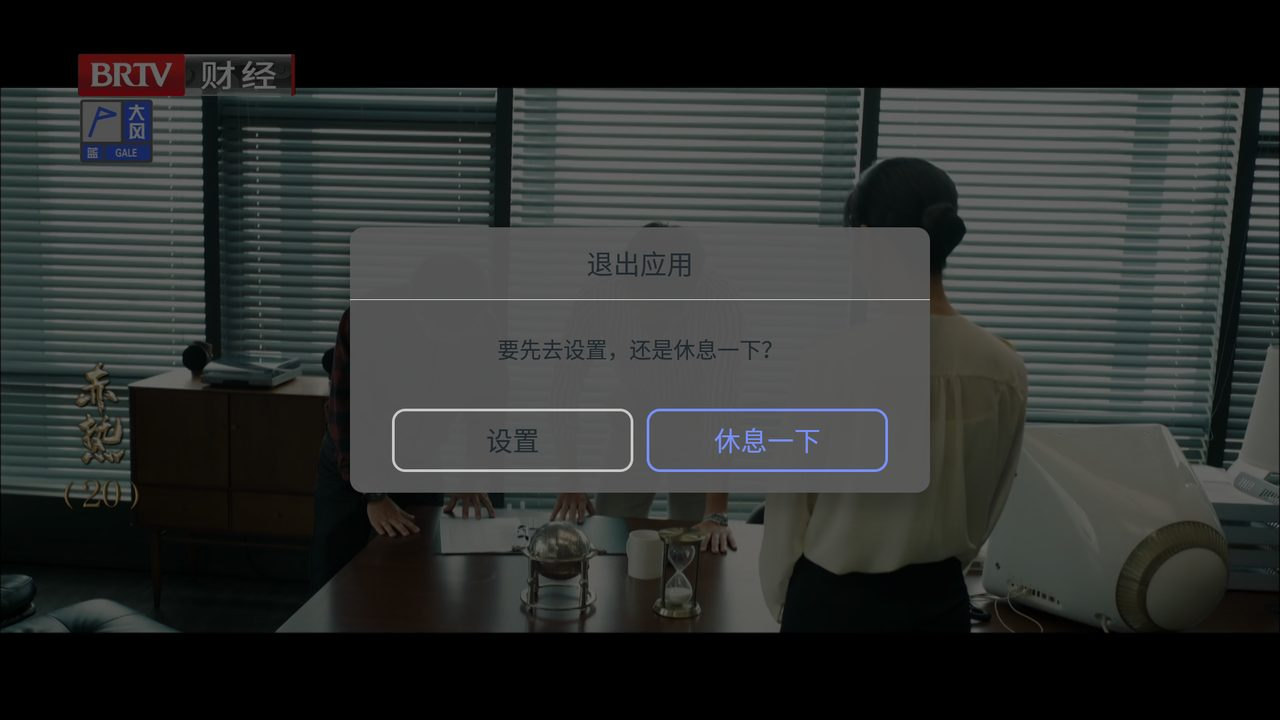
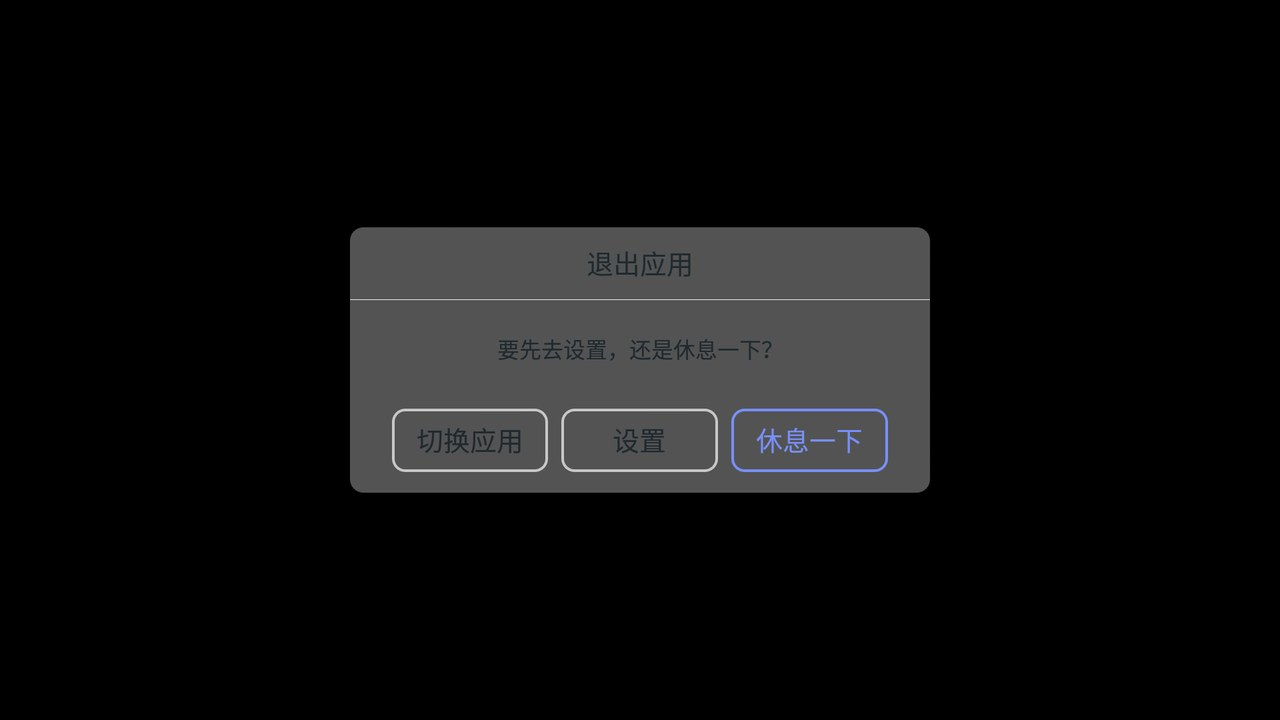
Fix launcher-mode issues found testing on a real box
Testing on a p230 (Android 7.1) turned up four problems:

- Pressing Home with WiTV as default launcher started a second
  PlayerActivity in the home stack while the original task kept running,
  so two players pulled the stream at once. A new instance now finishes
  the old one, and the old one no longer clears the PlayerManager the new
  one registered.
- On boot the box's mediacodec service crashes (SIGILL) and is gone for
  ~30 s. ExoPlayer's playback thread blocked on the codec query while the
  data kept arriving, and the 15 s source timeout then gave up with "all
  sources failed". Warm up MediaCodecList on a background thread before
  playing, with a hint if it takes a while, so the source timer only starts
  once decoding is possible. Also wait for network before the first load.
- The app switcher listed com.android.provision as a launcher. Only list
  HOME activities with the default priority, which drops setup wizards and
  FallbackHome.
- The system home settings page was opened inside WiTV's task; open it in
  its own task.

Docs: add the launcher section with real-device screenshots to the user
guide and refresh the exit dialog and playback settings screenshots.

diff --git a/app/src/main/java/com/whyun/witv/ui/PlayerActivity.java b/app/src/main/java/com/whyun/witv/ui/PlayerActivity.java
@@ -2,6 +2,12 @@ package com.whyun.witv.ui;
 
 import android.app.AlertDialog;
 import android.content.Intent;
+import android.media.MediaCodecList;
+import android.net.ConnectivityManager;
+import android.net.Network;
+import android.net.NetworkCapabilities;
+import android.net.NetworkInfo;
+import android.net.NetworkRequest;
 import android.net.wifi.WifiInfo;
 import android.net.wifi.WifiManager;
 import android.graphics.Bitmap;
@@ -50,6 +56,7 @@ import com.whyun.witv.data.repository.ChannelRepository;
 import com.whyun.witv.data.repository.EpgRepository;
 import com.whyun.witv.player.PlayerManager;
 
+import java.lang.ref.WeakReference;
 import java.util.ArrayList;
 import java.text.SimpleDateFormat;
 import java.util.Date;
@@ -121,6 +128,24 @@ public class PlayerActivity extends FragmentActivity implements PlayerManager.Ca
     private AlertDialog exitDialog;
     private AlertDialog appSwitcherDialog;
 
+    /**
+     * 当前存活的播放页。作为桌面时按 Home 键，系统会在桌面栈里另起一个任务新建实例，
+     * singleTask 管不到原先从启动器打开的那个；不处理就会两个播放器同时拉流。
+     */
+    private static WeakReference<PlayerActivity> liveInstance;
+
+    /** 网络未就绪时挂起首次加载，见 {@link #loadAndPlayWhenNetworkReady()} */
+    private ConnectivityManager.NetworkCallback networkWaitCallback;
+
+    /** 进程内已成功取到过解码器列表，之后不必再预热 */
+    private static volatile boolean codecListReady;
+    /** 预热超过这么久才提示「等待系统解码服务」，正常情况下几十毫秒就返回，不闪提示 */
+    private static final long CODEC_WARMUP_HINT_DELAY_MS = 800L;
+    private final Runnable codecWarmupHintRunnable = () -> {
+        switchingToast.setText(R.string.waiting_for_codec_service);
+        switchingToast.setVisibility(View.VISIBLE);
+    };
+
     private static final long CHANNEL_LIST_HIDE_IDLE_MS = 10_000L;
     private final Runnable hideChannelListIdleRunnable = () -> {
         if (isFocusInsideChannelListPanel()) {
@@ -177,6 +202,11 @@ public class PlayerActivity extends FragmentActivity implements PlayerManager.Ca
     @Override
     protected void onCreate(Bundle savedInstanceState) {
         super.onCreate(savedInstanceState);
+        PlayerActivity previous = liveInstance != null ? liveInstance.get() : null;
+        liveInstance = new WeakReference<>(this);
+        if (previous != null && previous != this && !previous.isFinishing()) {
+            previous.finishAndRemoveTask();
+        }
         setContentView(R.layout.activity_player);
 
         currentChannelId = getIntent().getLongExtra(EXTRA_CHANNEL_ID, -1);
@@ -190,7 +220,86 @@ public class PlayerActivity extends FragmentActivity implements PlayerManager.Ca
                     .commitNow();
         }
         applyLoadSpeedOverlayPreference();
-        loadAndPlay();
+        warmUpCodecListThen(this::loadAndPlayWhenNetworkReady);
+    }
+
+    /**
+     * 起播前先在后台线程取一次系统解码器列表。
+     *
+     * <p>部分盒子（p230 实测）开机时 mediacodec 进程会崩溃，要等 init 约 30 秒后重新拉起；
+     * 期间任何解码器查询都会阻塞。若直接起播，阻塞的是 ExoPlayer 的播放线程，
+     * 数据照收、画面不出，15 秒后被换源超时判为「所有播放源均不可用」，停在失败页。
+     * 先在这里等到解码服务可用，换源计时才从真正能播的时候开始。
+     * MediaCodecList 在进程内只初始化一次，之后 ExoPlayer 的查询直接命中缓存。
+     */
+    private void warmUpCodecListThen(Runnable next) {
+        if (codecListReady) {
+            next.run();
+            return;
+        }
+        handler.postDelayed(codecWarmupHintRunnable, CODEC_WARMUP_HINT_DELAY_MS);
+        new Thread(() -> {
+            try {
+                new MediaCodecList(MediaCodecList.REGULAR_CODECS).getCodecInfos();
+                codecListReady = true;
+            } catch (RuntimeException e) {
+                // 取不到也照常起播，交给播放器自己的出错与换源逻辑
+                android.util.Log.w("PlayerActivity", "Codec list warm-up failed", e);
+            }
+            handler.post(() -> {
+                handler.removeCallbacks(codecWarmupHintRunnable);
+                if (isFinishing()) {
+                    return;
+                }
+                switchingToast.setVisibility(View.GONE);
+                next.run();
+            });
+        }, "codec-warmup").start();
+    }
+
+    /**
+     * 作为桌面开机自启时，播放页往往比网卡拿到 IP 还早一两秒：M3U 刷新失败、
+     * 首个源超时后整页停在「所有播放源均不可用」。网络未连上就先提示等待，连上后再加载。
+     */
+    private void loadAndPlayWhenNetworkReady() {
+        ConnectivityManager cm = (ConnectivityManager) getSystemService(CONNECTIVITY_SERVICE);
+        NetworkInfo active = cm != null ? cm.getActiveNetworkInfo() : null;
+        if (cm == null || (active != null && active.isConnected())) {
+            loadAndPlay();
+            return;
+        }
+        switchingToast.setText(R.string.waiting_for_network);
+        switchingToast.setVisibility(View.VISIBLE);
+        networkWaitCallback = new ConnectivityManager.NetworkCallback() {
+            @Override
+            public void onAvailable(Network network) {
+                handler.post(() -> {
+                    if (networkWaitCallback == null || isFinishing()) {
+                        return;
+                    }
+                    unregisterNetworkWait();
+                    reloadInitialChannel();
+                });
+            }
+        };
+        cm.registerNetworkCallback(new NetworkRequest.Builder()
+                .addCapability(NetworkCapabilities.NET_CAPABILITY_INTERNET)
+                .build(), networkWaitCallback);
+    }
+
+    private void unregisterNetworkWait() {
+        if (networkWaitCallback == null) {
+            return;
+        }
+        ConnectivityManager cm = (ConnectivityManager) getSystemService(CONNECTIVITY_SERVICE);
+        if (cm != null) {
+            try {
+                cm.unregisterNetworkCallback(networkWaitCallback);
+            } catch (IllegalArgumentException ignored) {
+                // 已注销
+            }
+        }
+        networkWaitCallback = null;
     }
 
     private void initViews() {
@@ -1547,12 +1656,19 @@ public class PlayerActivity extends FragmentActivity implements PlayerManager.Ca
     @Override
     protected void onDestroy() {
         super.onDestroy();
+        unregisterNetworkWait();
         handler.removeCallbacksAndMessages(null);
         ExoPlayer exo = playerManager.getPlayer();
         if (exo != null) {
             exo.removeListener(mediaInfoListener);
         }
-        WiTVApp.getInstance().setActivePlayerManager(null);
+        // 被新实例顶替时，新实例已经登记了自己的 PlayerManager，不能把它清掉
+        if (WiTVApp.getInstance().getActivePlayerManager() == playerManager) {
+            WiTVApp.getInstance().setActivePlayerManager(null);
+        }
+        if (liveInstance != null && liveInstance.get() == this) {
+            liveInstance = null;
+        }
         playerManager.release();
         executor.shutdown();
     }

diff --git a/app/src/main/java/com/whyun/witv/ui/LauncherHelper.java b/app/src/main/java/com/whyun/witv/ui/LauncherHelper.java
@@ -79,7 +79,9 @@ public final class LauncherHelper {
      */
     public static void requestChooseDefaultHome(Activity activity) {
         PackageManager pm = activity.getPackageManager();
-        Intent settings = new Intent(Settings.ACTION_HOME_SETTINGS);
+        // 不加 NEW_TASK 会压进 WiTV 自己的任务栈，之后 WiTV 被顶替时会连带关掉设置页
+        Intent settings = new Intent(Settings.ACTION_HOME_SETTINGS)
+                .addFlags(Intent.FLAG_ACTIVITY_NEW_TASK);
         if (settings.resolveActivity(pm) != null) {
             try {
                 activity.startActivity(settings);
@@ -102,14 +104,22 @@ public final class LauncherHelper {
     /** 除 WiTV 以外的所有桌面 */
     public static List<AppEntry> queryOtherHomes(Context context) {
         PackageManager pm = context.getPackageManager();
-        List<AppEntry> entries = new ArrayList<>();
-        for (AppEntry e : toEntries(pm, pm.queryIntentActivities(homeIntent(), 0))) {
-            // 系统设置的 FallbackHome 只在开机解锁前兜底，直接打开是空白页
-            if (!e.component.getClassName().endsWith(".FallbackHome")) {
-                entries.add(e);
+        List<ResolveInfo> homes = new ArrayList<>();
+        for (ResolveInfo ri : pm.queryIntentActivities(homeIntent(), 0)) {
+            if (isRealHome(ri)) {
+                homes.add(ri);
             }
         }
-        return dedupeAndSort(entries, context.getPackageName());
+        return dedupeAndSort(toEntries(pm, homes), context.getPackageName());
+    }
+
+    /**
+     * 排除不是给人用的 HOME 组件：开机向导（如 com.android.provision）用正优先级抢在
+     * 真正桌面之前，打开它可能重走一遍开机设置；FallbackHome 优先级为负，只在开机解锁前兜底，
+     * 打开是空白页。正常桌面不声明优先级，即 0。
+     */
+    static boolean isRealHome(ResolveInfo ri) {
+        return ri.priority == 0;
     }
 
     /** 电视与手机启动器里能看到的应用，按包名去重（同一应用优先保留 Leanback 入口） */

diff --git a/app/src/test/java/com/whyun/witv/ui/LauncherHelperTest.java b/app/src/test/java/com/whyun/witv/ui/LauncherHelperTest.java
@@ -1,6 +1,7 @@
 package com.whyun.witv.ui;
 
 import android.content.ComponentName;
+import android.content.pm.ResolveInfo;
 
 import org.junit.Test;
 import org.junit.runner.RunWith;
@@ -10,6 +11,8 @@ import java.util.Arrays;
 import java.util.List;
 
 import static org.junit.Assert.assertEquals;
+import static org.junit.Assert.assertFalse;
+import static org.junit.Assert.assertTrue;
 
 @RunWith(RobolectricTestRunner.class)
 public class LauncherHelperTest {
@@ -37,6 +40,19 @@ public class LauncherHelperTest {
 
         assertEquals(1, out.size());
         assertEquals("TvMain", out.get(0).component.getClassName());
+    }
+
+    @Test
+    public void isRealHomeRejectsSetupWizardAndFallbackHome() {
+        ResolveInfo launcher = new ResolveInfo();
+        ResolveInfo provision = new ResolveInfo();
+        provision.priority = 1;
+        ResolveInfo fallback = new ResolveInfo();
+        fallback.priority = -1000;
+
+        assertTrue(LauncherHelper.isRealHome(launcher));
+        assertFalse(LauncherHelper.isRealHome(provision));
+        assertFalse(LauncherHelper.isRealHome(fallback));
     }
 
     @Test

diff --git a/CHANGELOG.md b/CHANGELOG.md
@@ -20,6 +20,16 @@
 - `PlayerActivity` 改为 `singleTask`：作为桌面时每次按 Home 都回到同一个实例，
   只收起面板、不重新加载频道。作为默认桌面时「休息一下」改为退到后台而非 `finish()`——
   否则系统会立刻把桌面重新拉起来，看起来像退不出去
+- 播放页同一时间只保留一个实例：作为桌面时按 Home，系统会在桌面栈里另起任务新建播放页，
+  `singleTask` 管不到原先从启动器打开的那个，两个播放器会同时拉流。新实例创建时关掉旧的，
+  旧实例销毁时也不再清掉新实例登记的 `PlayerManager`
+- 首次加载等网络就绪再起播：网络未连上时提示「正在等待网络连接…」，连上后再加载
+- 起播前先在后台线程预热系统解码器列表（`MediaCodecList`）。p230 实测：开机时 mediacodec
+  反复 SIGILL 崩溃，约 30 秒内任何解码器查询都会阻塞。不预热时阻塞的是 ExoPlayer 播放线程——
+  组播数据照收（环形缓冲溢出）、画面不出，15 秒后被换源超时判为「所有播放源均不可用」，
+  udpxy 与组播直收都一样。预热期间提示「正在等待系统解码服务…」，换源计时从解码服务可用后才开始
+- 切换面板的「其他桌面」排除开机向导（`com.android.provision`）与 `FallbackHome`：
+  它们以非零优先级声明 HOME，打开开机向导可能会重走一遍开机设置
 
 ## [1.4.0] - 2026-10-04
 

diff --git a/README.md b/README.md
@@ -89,11 +89,11 @@ APK 输出路径：`app/build/outputs/apk/debug/app-debug.apk`
 ### 作为桌面启动（可选）
 
 1. 菜单键 → 设置 → 播放选项 → 勾选「作为桌面启动」
-2. 在系统弹出的桌面列表中选择 WiTV，并选「始终」
+2. 在打开的系统「默认应用」页点「主屏幕应用」并选择 WiTV；没有该页面的盒子会直接弹出桌面列表，选 WiTV 并点「始终」
 3. 需要打开其他应用时：返回键 → 「切换应用」，可打开其他桌面、系统设置或任意已安装应用
 4. 想换回原来的桌面：「切换应用」→「更改默认桌面…」，或直接取消勾选「作为桌面启动」
 
-部分电视盒子 ROM 锁定了默认桌面，此时选择框可能不出现，需要到系统设置里修改。
+开机时会等网络与系统解码服务就绪再起播。图文步骤见 [使用手册](docs/user-guide.md#作为桌面启动)。部分电视盒子 ROM 锁定了默认桌面，此时选择框可能不出现，需要到系统设置里修改。
 
 ## Web 管理 API
 
